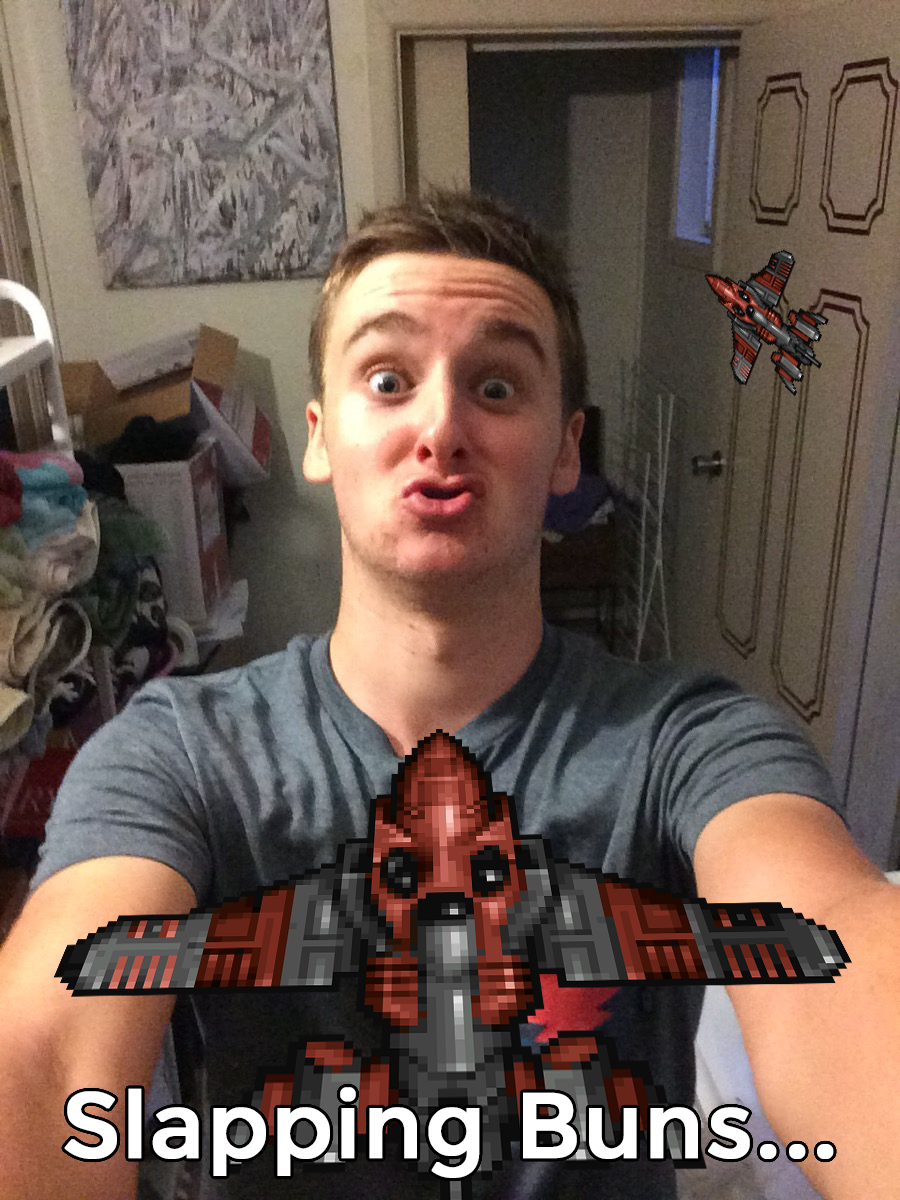
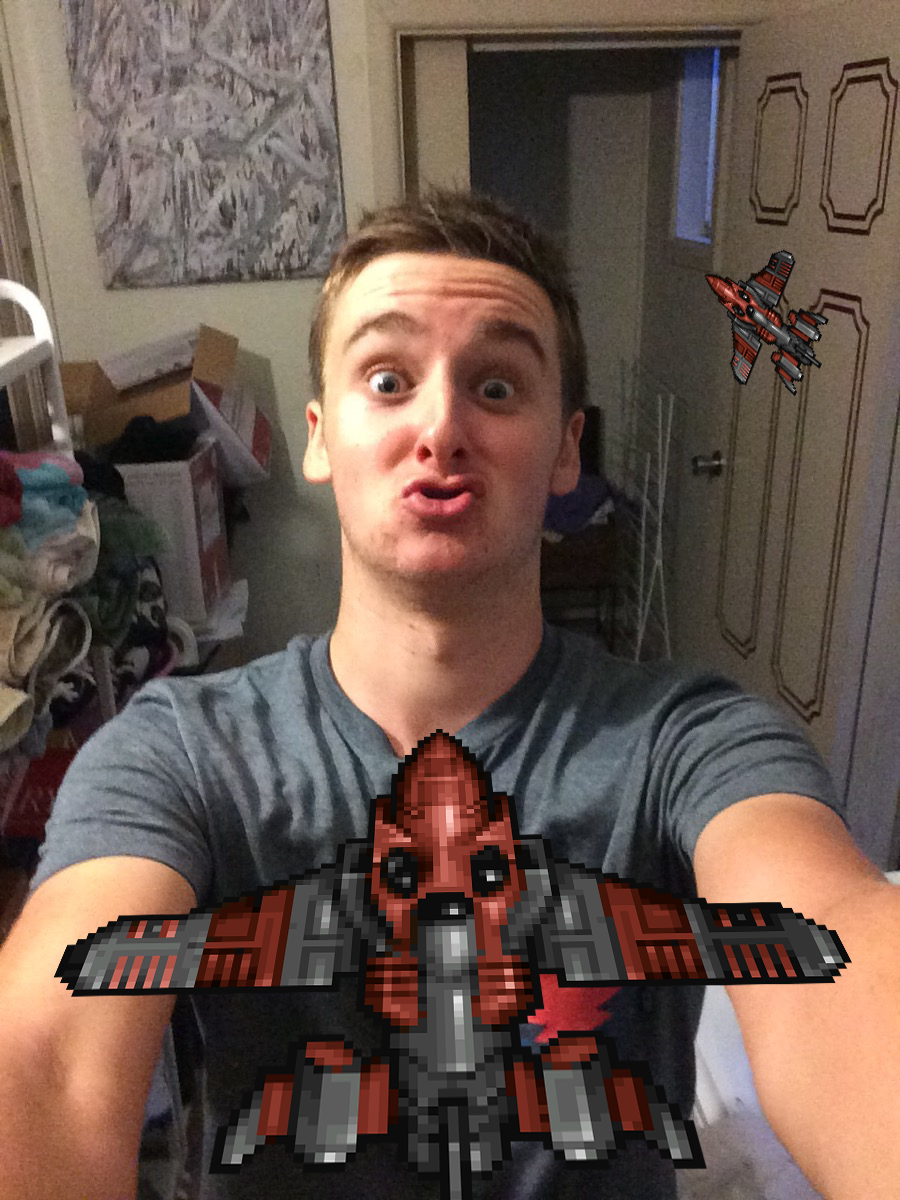
Changed loading text

Changed region(s): [[0.0622, 0.8942, 0.9333, 0.9867]]

diff --git a/project/engine/display.js b/project/engine/display.js
@@ -99,6 +99,7 @@ function run(){
       }
     }
   }else{
+    var ratio = startImage.height/canvas.height
     render.AddRender(10, {
       image: startImage,
       location: {x: 0, y: 0},
@@ -112,6 +113,7 @@ function run(){
       },
       rotation: 0
     });
+    render.AddText("Slapping Buns...", 28, {x: canvas.width/2, y: canvas.height-32}, 10, "center", "white");
   }
   render.Draw();
 };
